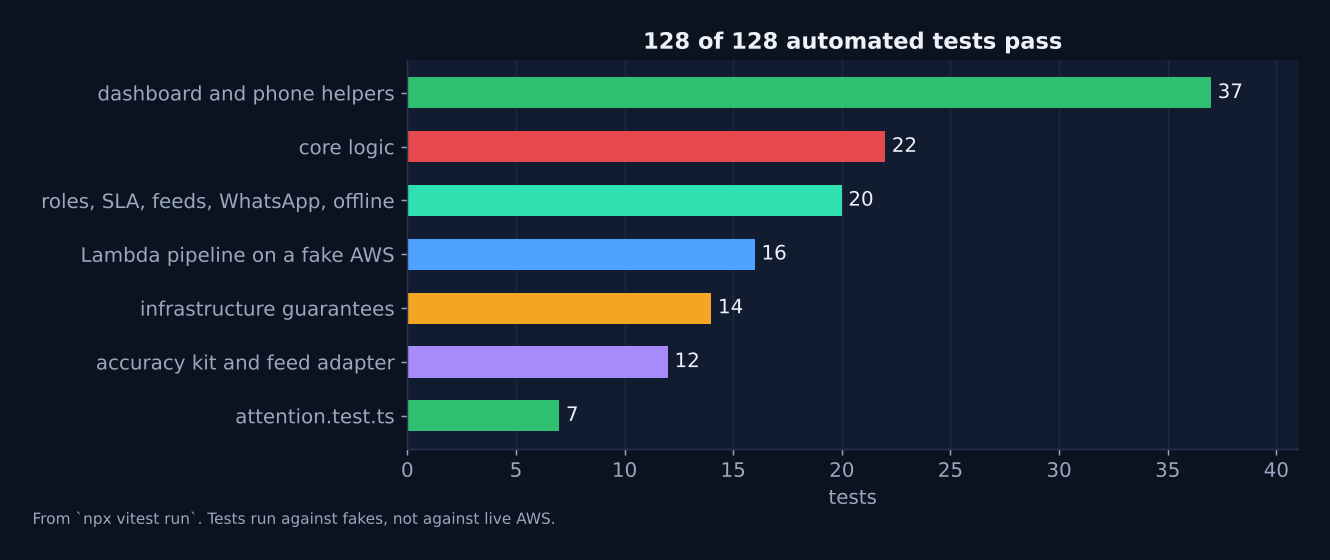
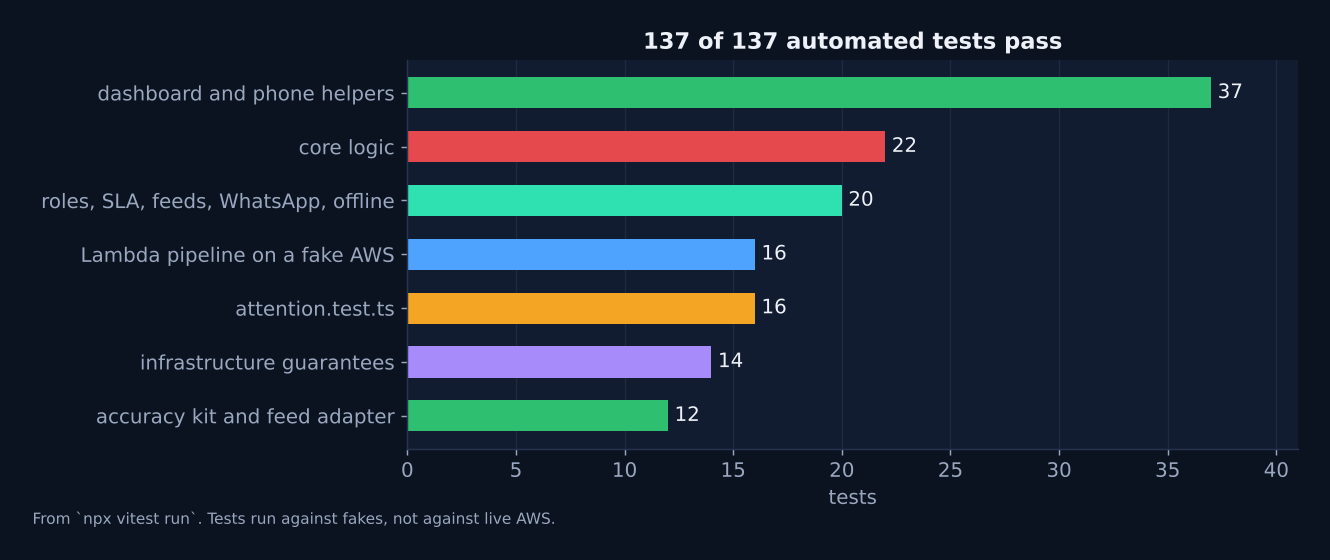
README: sync test counts (137 unit, 12 browser) and graph

diff --git a/README.md b/README.md
@@ -8,7 +8,7 @@
 Hindi, Hinglish and dialect voice or text reports become one ranked, de-duplicated rescue queue on a live 3D map. Rescue crews get their own phone page, and nothing waits unnoticed.
 
 [![CI](https://github.com/antrikakashyap/baadhmitra/actions/workflows/ci.yml/badge.svg)](https://github.com/antrikakashyap/baadhmitra/actions/workflows/ci.yml)
-![tests](https://img.shields.io/badge/tests-128%20passing-2fbf71)
+![tests](https://img.shields.io/badge/tests-137%20passing-2fbf71)
 ![AWS](https://img.shields.io/badge/AWS-Lambda%20%C2%B7%20SQS%20%C2%B7%20DynamoDB%20%C2%B7%20Bedrock%20%C2%B7%20Cognito-ff9900)
 ![TypeScript](https://img.shields.io/badge/TypeScript-strict-3178c6)
 ![three.js](https://img.shields.io/badge/3D-three.js-black)
@@ -240,10 +240,10 @@ flowchart LR
 
 ## Tests and evaluation
 
-<p align="center"><img src="docs/assets/g-tests.png" alt="Bar chart of 128 passing tests by area" width="70%"/></p>
+<p align="center"><img src="docs/assets/g-tests.png" alt="Bar chart of 137 passing tests by area" width="70%"/></p>
 
 ```bash
-npm run typecheck && npm test      # 128 tests: core logic, the Lambda pipeline against a fake AWS, roles and audit, WhatsApp signatures, feeds, offline queue, CDK guarantees, accuracy kit
+npm run typecheck && npm test      # 137 tests: core logic, the Lambda pipeline against a fake AWS, roles and audit, WhatsApp signatures, feeds, offline queue, CDK guarantees, accuracy kit
 npm run eval                       # extractor benchmark (add LLM=1 MODEL=<id> to score Bedrock)
 npx cdk synth                      # validates the CloudFormation template
 npm run loadtest -- <api> 200 20 --yes   # load test the public endpoint (use a staging stack)
@@ -261,7 +261,7 @@ npm run docs:data && npm run docs:graphs # regenerate the numbers and graphs in 
 | Dashboard and phone helpers (`filter`, `csv`, `queue`, `pingrule`, `mfa`, `villages-import`, `logic`) | 35 | queue search, CSV export, single-flight outbox, crew pings, two-step enrolment, village import, crew suggestions and time-to-danger |
 | Accuracy kit and feed adapter (`kit.test.ts`) | 12 | CSV parsing, label normalisation, confidence intervals, labeler agreement, foreign gauge feeds mapped without inventing values |
 
-On top of these, `npm run e2e` runs 11 Playwright browser tests against the built site in demo mode (ranked queue, search and filters, crew suggestions, dialogs, surge, and the citizen page keeping a report offline and sending it when the network returns, and saying so when it is rate-limited). They run in CI and need no AWS.
+On top of these, `npm run e2e` runs 12 Playwright browser tests against the built site in demo mode (ranked queue, search and filters, crew suggestions, dialogs, surge, and the citizen page keeping a report offline and sending it when the network returns, and saying so when it is rate-limited). They run in CI and need no AWS.
 
 What the tests do **not** cover: a live AWS account, real WhatsApp traffic, real phones' GPS, or any real flood message. The pipeline tests run on fakes.
 
